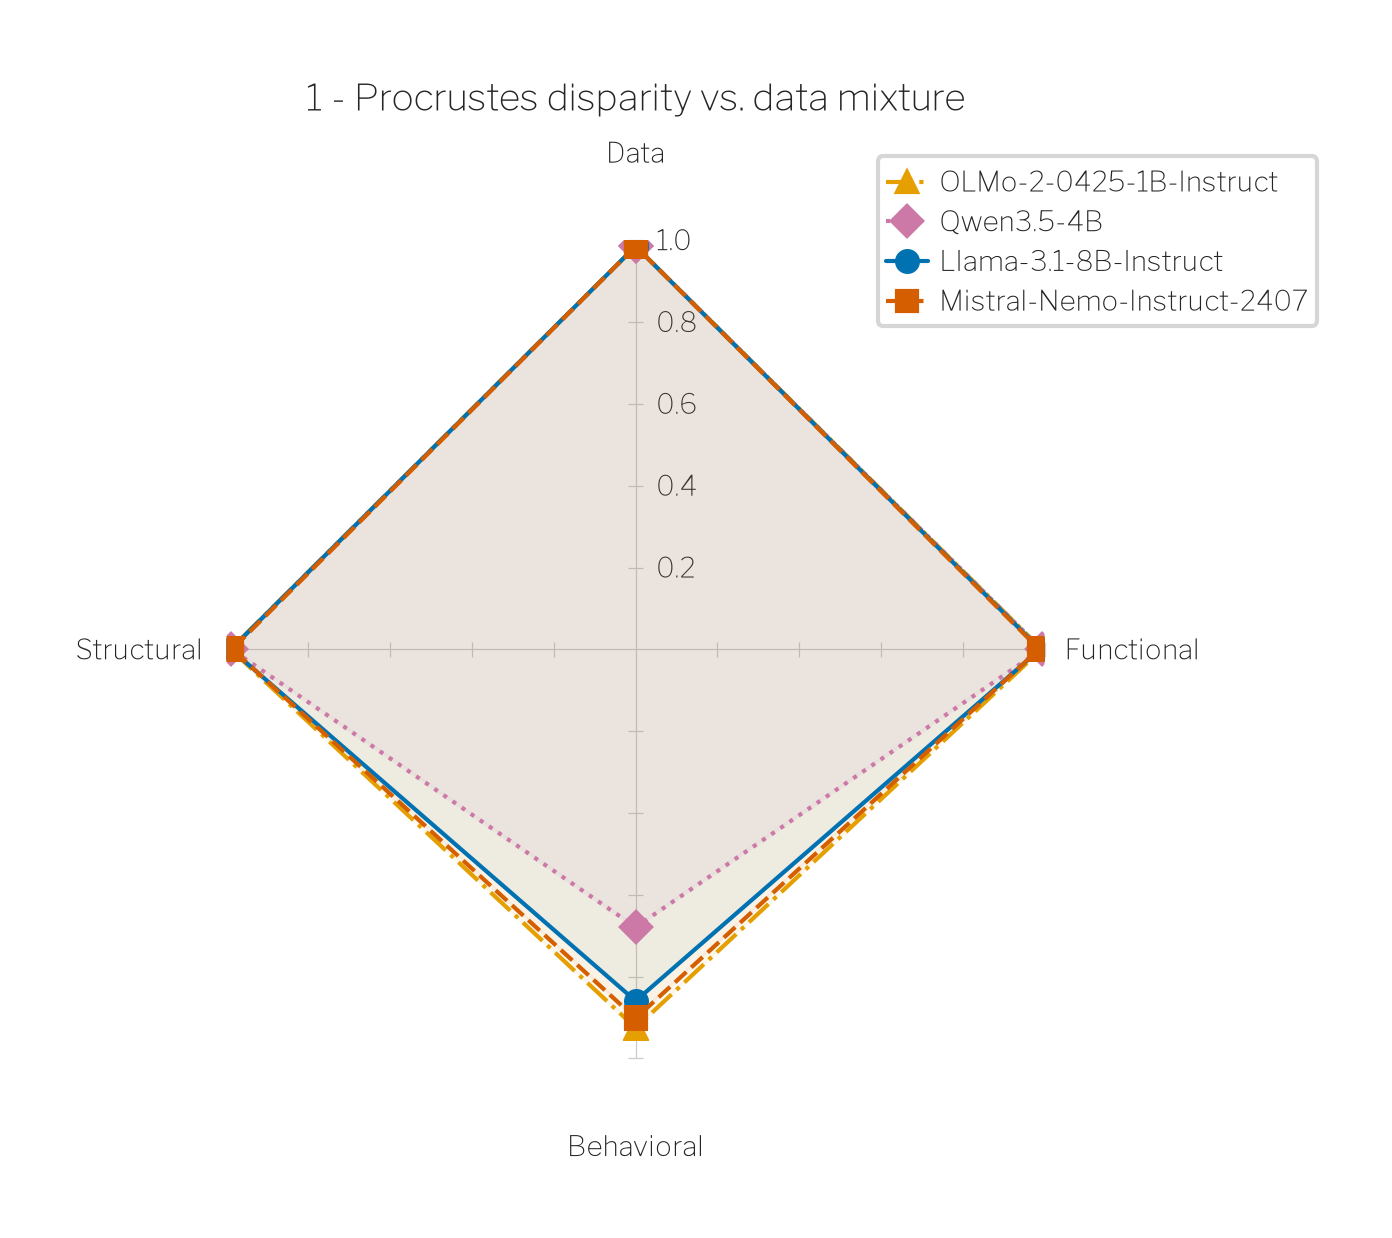
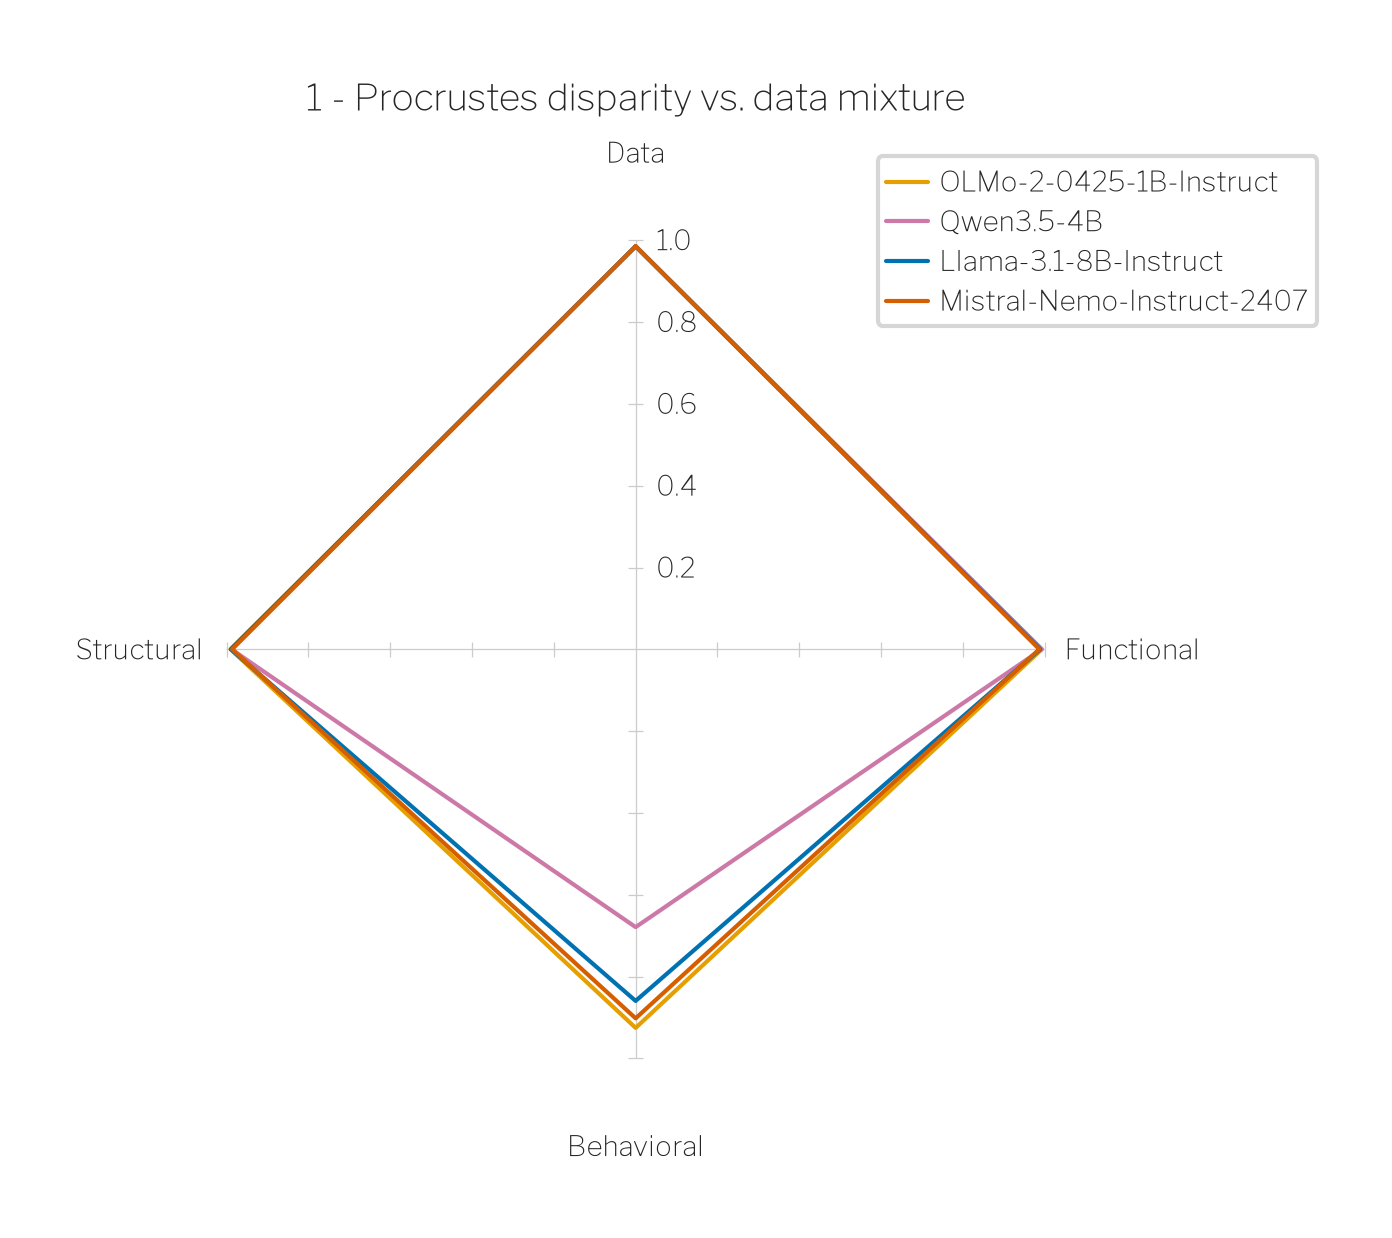
style(figures): draw the aggregate radars as solid unmarked outlines
Four polygons crowded into the outer fifth of the radial range turned the
markers and dashes into texture rather than identity, and the translucent
fills stacked into a wash at any alpha. Colour alone separates the four
cleanly at this scale, so the radars now draw one solid unmarked line per
model with no fill.

The per-model marker and dash stay in MODELS -- _series takes a uniform
override instead of dropping them -- so the assigned encodings survive for
whatever draws them next.

Claude-Session: https://claude.ai/code/session_01S6CzwYUHpXsKaw2JNcaddi

Changed region(s): [[0.1545, 0.1842, 0.7723, 0.8595], [0.6178, 0.1228, 0.6796, 0.2456]]

diff --git a/figures/simplex3_aggregate/make_figures.py b/figures/simplex3_aggregate/make_figures.py
@@ -80,8 +80,9 @@ from src.plots.simplex_suite import read_scores_csv, select_score  # noqa: E402
 #:
 #: Colours are Okabe-Ito, which is designed to stay separable under the common
 #: colour-vision deficiencies. Marker and dash travel with the model rather than
-#: with its position, so the series stay separable in greyscale and a reordering
-#: here does not silently reassign them.
+#: with its position, so a reordering here cannot silently reassign them; the
+#: radar overrides both (see draw_radar), so they are the model's assigned
+#: encodings held for whatever draws them, not a promise that every figure does.
 MODELS = [
     ("allenai/OLMo-2-0425-1B-Instruct",      "simplex3_olmo2",   "#E69F00", "^", "-."),   # 1B,  gold
     ("Qwen/Qwen3.5-4B",                      "simplex3_qwen_v4", "#CC79A7", "D", ":"),    # 4B,  purple
@@ -139,14 +140,20 @@ def collect(figures_root: Path) -> dict[str, dict[str, dict[str, float]]]:
     return out
 
 
-def _series(scores, version, labels):
-    """One PlotSeries per model, values ordered to match *labels*."""
+def _series(scores, version, labels, marker=None, linestyle=None):
+    """One PlotSeries per model, values ordered to match *labels*.
+
+    *marker* and *linestyle* override the per-model encodings in MODELS for
+    every series at once, for a figure that wants one uniform stroke.
+    """
     return [
         make_series(
             [scores[label_of(base_model)][version][lbl] for lbl in labels],
-            label=label_of(base_model), color=color, marker=marker, linestyle=ls,
+            label=label_of(base_model), color=color,
+            marker=marker if marker is not None else mkr,
+            linestyle=linestyle if linestyle is not None else ls,
         )
-        for base_model, _, color, marker, ls in MODELS
+        for base_model, _, color, mkr, ls in MODELS
     ]
 
 
@@ -156,7 +163,10 @@ def draw_radar(scores, version: str, outdir: Path) -> Path:
     set_style("one_col", fig_width=4.4, fig_height=3.7)
     fig, ax = plt.subplots(subplot_kw={"projection": "polar"})
     plot_radar(
-        _series(scores, version, labels),
+        #   Solid unmarked outlines: with four polygons crowded into the outer
+        #   fifth of the range, markers and dashes read as texture rather than as
+        #   identity, and colour alone separates the four cleanly enough.
+        _series(scores, version, labels, marker="none", linestyle="-"),
         axis_labels=labels,
         ax=ax,
         start_angle=90.0,      # Data at the top ...
@@ -164,10 +174,10 @@ def draw_radar(scores, version: str, outdir: Path) -> Path:
         rlim=(0.0, 1.0),
         rticks=[0.2, 0.4, 0.6, 0.8, 1.0],
         #   Four translucent polygons over a small range stack into one muddy
-        #   wash, so the fill is faint enough to read as shading, not as ink.
-        fill_alpha=0.05,
-        #   Data and 1 - procrustes both sit at ~0.98, so their markers land on
-        #   the outer ring; without the pad they cover the spoke labels.
+        #   wash whichever alpha is picked, so there is no fill at all.
+        fill_alpha=0.0,
+        #   Data and 1 - procrustes both sit at ~0.98, so their outlines run
+        #   along the outer ring; without the pad they touch the spoke labels.
         label_pad=12,
         #   Straight ticked axes out to each spoke instead of concentric rings,
         #   numbered once on the Data spoke -- all four share the one scale.
